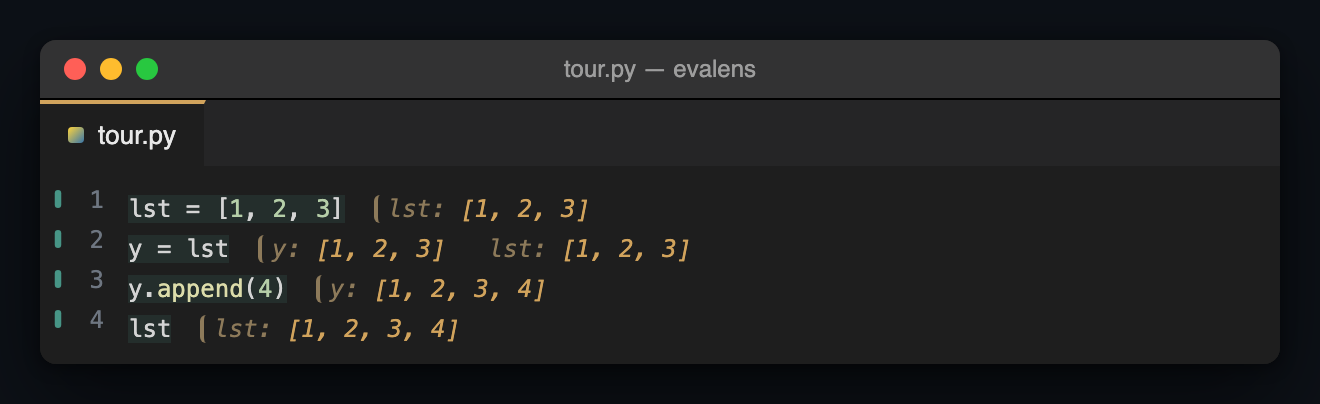
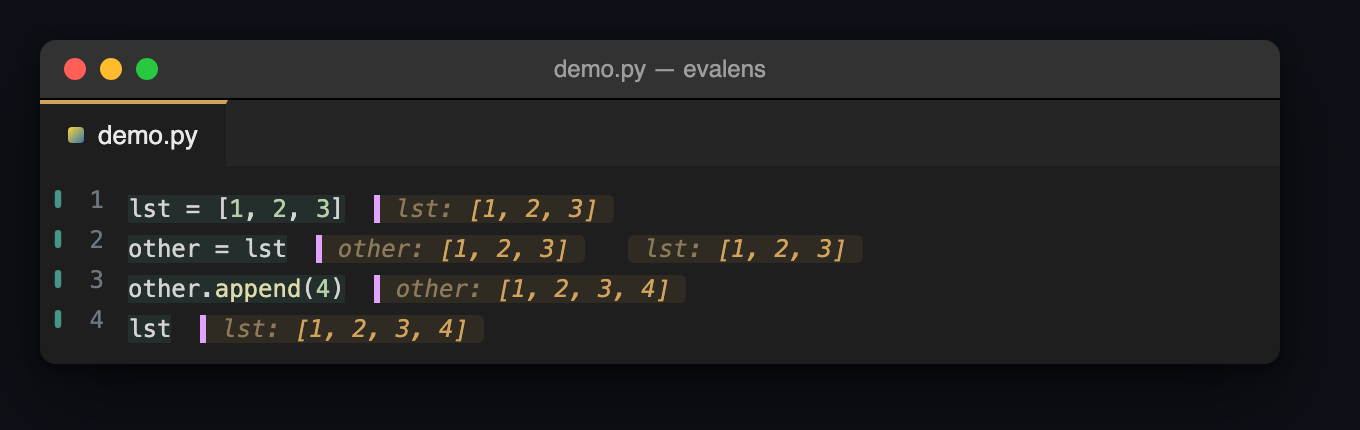
Open the README with who it is for, and regenerate the still
A stranger reading the README got a mechanism before a reason. It now
opens with the name explaining itself -- eval, through a lens -- one
sentence saying who this is for, and the aliasing example, then spends
a paragraph on the distinction the whole tool rests on: a trace of
what each line produced when it ran, kept beside the line, against a
debugger's single current value at the moment you stopped. That
distinction is why line two can still say other: [1, 2, 3] after line
three changed it, and it is the thing a student cannot get from a
terminal, a debugger, or anything short of a notebook.

The notebook angle is stated plainly for the first time. Courses forbid
notebooks for the reason they are seductive: any-order execution and
invisible state never produce a file that runs top to bottom. Evalens
gives back the one thing the notebook had -- the tight loop -- without
giving back the notebook, and the section says how: a plain .py that
python3 runs unchanged, nothing running until asked, state visible on
the line, and Python as the only install.

A sixty-second try-it block sits above the feature tour, because the
reader who is going to install it decides in the first screen. The
full Requirements and Install sections keep their place and their
content, which the README tests depend on.

The still was stale. It had been rendered before the chip work landed
and showed the rounded bar that was diagnosed as reading like an
[…]

Changed region(s): [[0.0311, 0.4455, 0.9008, 0.8614], [0.0311, 0.0891, 0.9939, 0.4158], [0.0311, 0.297, 0.1553, 0.3564]]

diff --git a/README.md b/README.md
@@ -1,52 +1,102 @@
-# Evalens — Inline Python Values
-
-**Put the cursor on a line. Press a key. See what that line produced,
-painted beside the code.**
-
-```python
-lst = [1, 2, 3]     ▌lst: [1, 2, 3]
-other = lst         ▌other: [1, 2, 3]
-other.append(4)     ▌other: [1, 2, 3, 4]
-lst                 ▌lst: [1, 2, 3, 4]
-```
-
-Read the block, not the mechanism. Four lines, four answers, all visible at
-once, in the order they appear in the file — and the fourth line is the
-lesson, because `lst` changed without `lst` ever being on the left of
-anything.
-
-A terminal shows you those four values one after another and then scrolls
-them away. A debugger stopped at the end shows you the last one, by which
-time both names read `[1, 2, 3, 4]` and the thing worth learning has already
-happened. Neither shows the *shape* of what happened, which is exactly what
-someone learning aliasing is trying to see.
-
-That is the whole product. Everything below is a consequence of it.
-
-> **The notebook feedback loop, on a file that never stops being source
-> code, with the state visible instead of hidden.**
-
-No `print()`. No debugger. No notebook. No cell markers. The file stays a
-plain `.py` that `python3 yourfile.py` runs unchanged, and the only thing
-you need installed is Python itself.
-
-## Demo
-
 <p align="center">
-  <img src="media/demo/tour-still.png" width="620" alt="Four lines of
-    Python, each annotated inline with the value it produced, after four
-    presses of Evaluate and Advance">
+  <img src="media/icon.png" width="112" alt="Evalens">
 </p>
 
-*A rendered stand-in, not yet a screen recording.* The text on it is real —
-produced by driving `kernel/evalens_kernel.py` through the same renderer the
-extension paints with, and `src/test/integration.test.ts` asserts those four
-strings against the running kernel. What is missing is the animation, which
-needs a human, an editor and a screen capture.
-[`examples/demo.py`](examples/demo.py) is written for exactly that: ten
-beats, each one line, ordered so every press lands harder than the last.
-[`docs/development/demo-shooting-script.md`](docs/development/demo-shooting-script.md)
-is the recipe.
+<h1 align="center">eval·lens</h1>
+
+<p align="center">
+  <em><b>eval</b>uate your Python, through a <b>lens</b>.</em><br>
+  <sub>Evalens is a VS Code extension.</sub>
+</p>
+
+<p align="center">
+  <b>Live, line-by-line Python inside an ordinary <code>.py</code> file —
+  the feedback loop of a notebook, for people who are not allowed one.</b>
+</p>
+
+<p align="center">
+  <img src="media/demo/tour-still.png" width="640" alt="Four lines of
+    Python in VS Code, each annotated inline with the value it produced">
+</p>
+<p align="center"><sub>Rendered from the real kernel and the real renderer,
+not drawn by hand — but not yet a screen recording.
+<a href="examples/demo.py"><code>examples/demo.py</code></a> is the file to
+film and
+<a href="docs/development/demo-shooting-script.md">the shooting script</a>
+is the recipe.</sub></p>
+
+Put the cursor on a line. Press `Cmd+Enter`. The value appears beside the
+code — and stays there while you press it on the next line, and the next.
+
+```python
+lst = [1, 2, 3]      ▌lst: [1, 2, 3]
+other = lst          ▌other: [1, 2, 3]   lst: [1, 2, 3]
+other.append(4)      ▌other: [1, 2, 3, 4]
+lst                  ▌lst: [1, 2, 3, 4]
+```
+
+Four lines, four answers, all on screen at once, in the order they sit in
+the file. The fourth line is the lesson: `lst` changed, and `lst` was never
+on the left of anything. A student who *sees* that has understood aliasing.
+A student who is told it has been told something.
+
+## A trace, not a current value
+
+This is the idea the whole tool is built on, and it is worth one paragraph.
+
+A debugger shows you the **current** value of a variable: stop the program
+somewhere and look. That is one moment, and it is always the last one. Stop
+after `other.append(4)` above and both names read `[1, 2, 3, 4]` — correct,
+and useless, because the thing worth learning was that they *used to* be the
+same object *before* anyone could tell.
+
+Evalens shows you a **trace**: what each line produced **when it ran**,
+kept beside the line, never re-read later. Line two still says
+`other: [1, 2, 3]` after line three has changed it, because that is what
+line two produced. You are looking at the history of the program, laid out
+down the page in the same order you wrote it. That is the thing a terminal
+scrolls away, a debugger collapses into "now", and a notebook only gives you
+if you stop writing programs and start writing cells.
+
+## Who this is for
+
+**Someone learning Python who has to write real programs.** Many first-year
+courses forbid notebooks for exactly the reason they are seductive: a
+notebook lets you run cells in any order, accumulate state nobody can see,
+and never once produce a file that runs top to bottom. That habit does not
+ship a Mars lander, a trading system, or a passing assignment. So the course
+says *write `.py` files* — and takes the notebook's one genuine gift, the
+tight see-what-happened loop, away with it.
+
+Evalens gives that loop back **without giving back the notebook**:
+
+- The file stays a plain `.py`. `python3 yourfile.py` runs it unchanged.
+  There are no cell markers, no magic comments, nothing to strip out before
+  you hand it in.
+- Nothing runs until you ask. You press a key; one statement runs. No
+  evaluate-as-you-type, which on beginner code means re-launching a program
+  stuck at `input()` every time you pause.
+- The state is *visible*. Every value is beside the line that made it, so
+  "why is this 55?" is answered by reading upward, not by adding a
+  `print()`.
+- The only thing you install is Python. No Jupyter, no `ipykernel`, no
+  interpreter picker, no `launch.json`.
+
+It is also for anyone who has ever added `print(x)` on line 40 to find out
+what line 12 did — which is everyone.
+
+## Try it in sixty seconds
+
+You need VS Code and **Python 3.9 or later on your `PATH`**. Nothing else.
+
+```bash
+code --install-extension python-inline-values-0.0.1.vsix   # from a release or a friend
+```
+
+Open any `.py` file, put the cursor on a line, press **`Cmd+Enter`**
+(`Ctrl+Enter` elsewhere). Then hold **`Cmd+Shift+Enter`** and watch it walk
+down the file. Full install options, including building from source, are
+under [Install](#install) below.
 
 ## What you get
 
